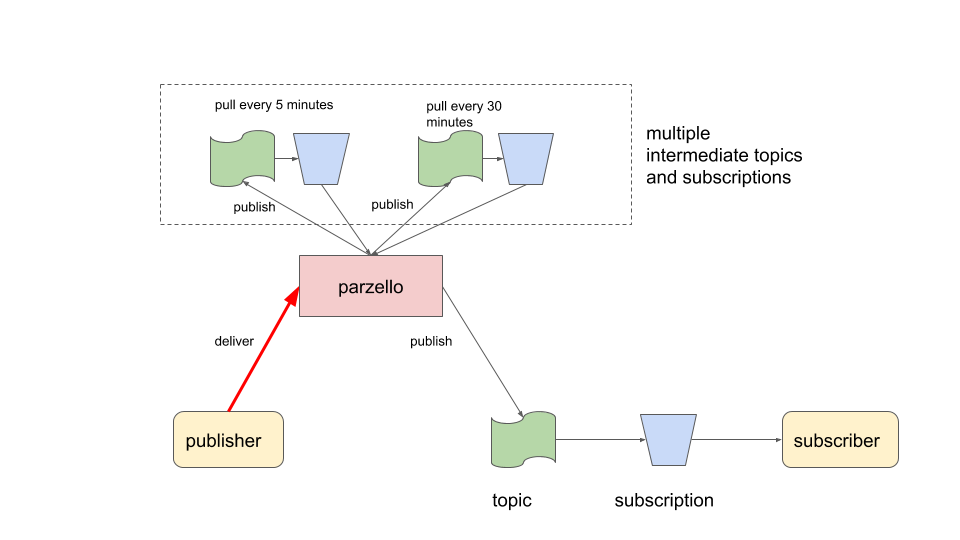
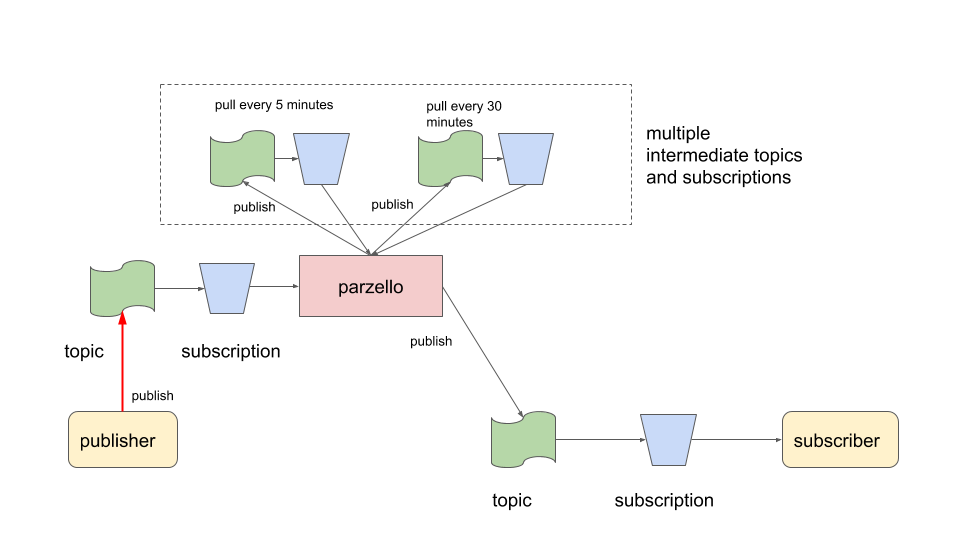
changed readme + pics, config use id

diff --git a/config.go b/config.go
@@ -26,7 +26,7 @@ func (q Queue) postLoaded() (Queue, error) {
 
 // Config is read from a configuration JSON file.
 type Config struct {
-	Project string `json:"project"`
+	Project string `json:"project-id"`
 	// Queues is sorted by Duration, shortest first
 	Queues []Queue `json:"queues"`
 }

diff --git a/README.md b/README.md
@@ -26,8 +26,9 @@ Ofcourse this is a fragile design and can lead to problems (what if the created 
 
 ## how does it work?
 
-Instead of the publisher publishing to a topic, it sends a DeliverRequest to `parzello` specifying the time to delay the publish. 
-The service will publish that request to one of its intermediary topics. 
+
+Instead of the publisher publishing to its destination topic, it publishes the message to a `parzello` PubSub topic specifying the time to delay the publish using meta data.
+The `parzello` service will publish that message to one of its intermediary topics. 
 Each such topic has its own listener (pulling messaging) at a time interval.
 In this diagram, 2 such topics exists. One is pulled every 5 minutes. 
 Each message is inspected to see whether it is about time to publish it to the actual destination topic.
@@ -38,17 +39,11 @@ Using a configuration, you can specify which intermediary topics you have create
 ![](./doc/parzello_delay.png)
 
 In the next design, `parzello` is used to retry publishing a message at a later moment.
-By passing the PublishCount into the retry DeliverRequest, a subscriber can inspect this value and behave accordingly (i.e abort on MaxRetries).
+By passing publisch count metadata to the retry message, a subscriber can inspect this value and behave accordingly (i.e abort on MaxRetries).
 
 ![](./doc/parzello_delay_retry.png)
 
 ## usage
-
-### api
-
-This services uses gRPC for its API access.
-The proto definition can be found in the /v1 folder.
-In the example folder, you can see an example of a Go client implementation. Using `protoc` tools, you can generate a client for your programming language.
 
 ### server config
 
@@ -58,7 +53,7 @@ The topics and subscriptions must be created upfront in the project `YOUR GCP PR
 A duration string is a possibly signed sequence of decimal numbers, each with optional fraction and a unit suffix, such as "60s", "1.5h" or "2h45m". Valid time units are "ms", "s", "m", "h".
 
     {
-        "project":"YOUR GCP PROJECT",
+        "project-id":"YOUR GCP PROJECT",
         "queues": [
             {
                 "topic": "parzello_5_minutes",
